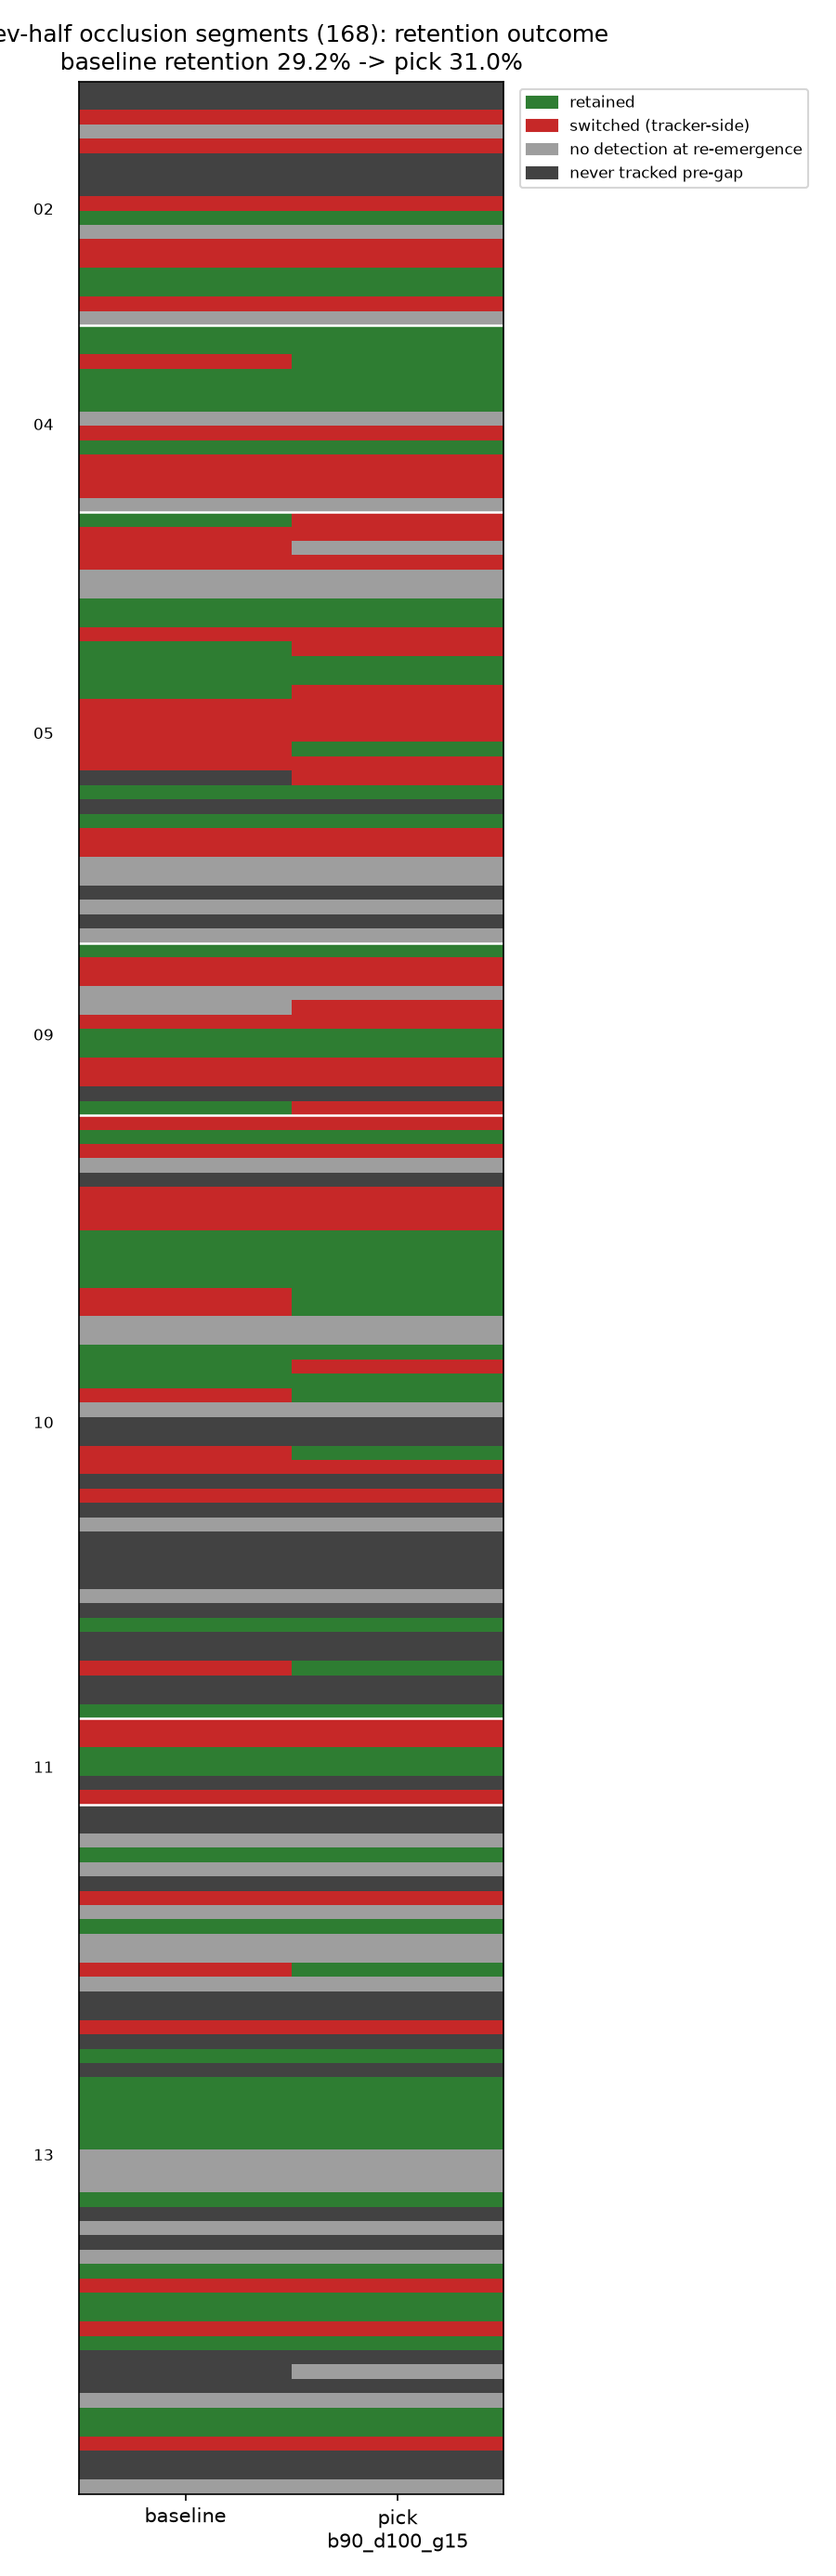
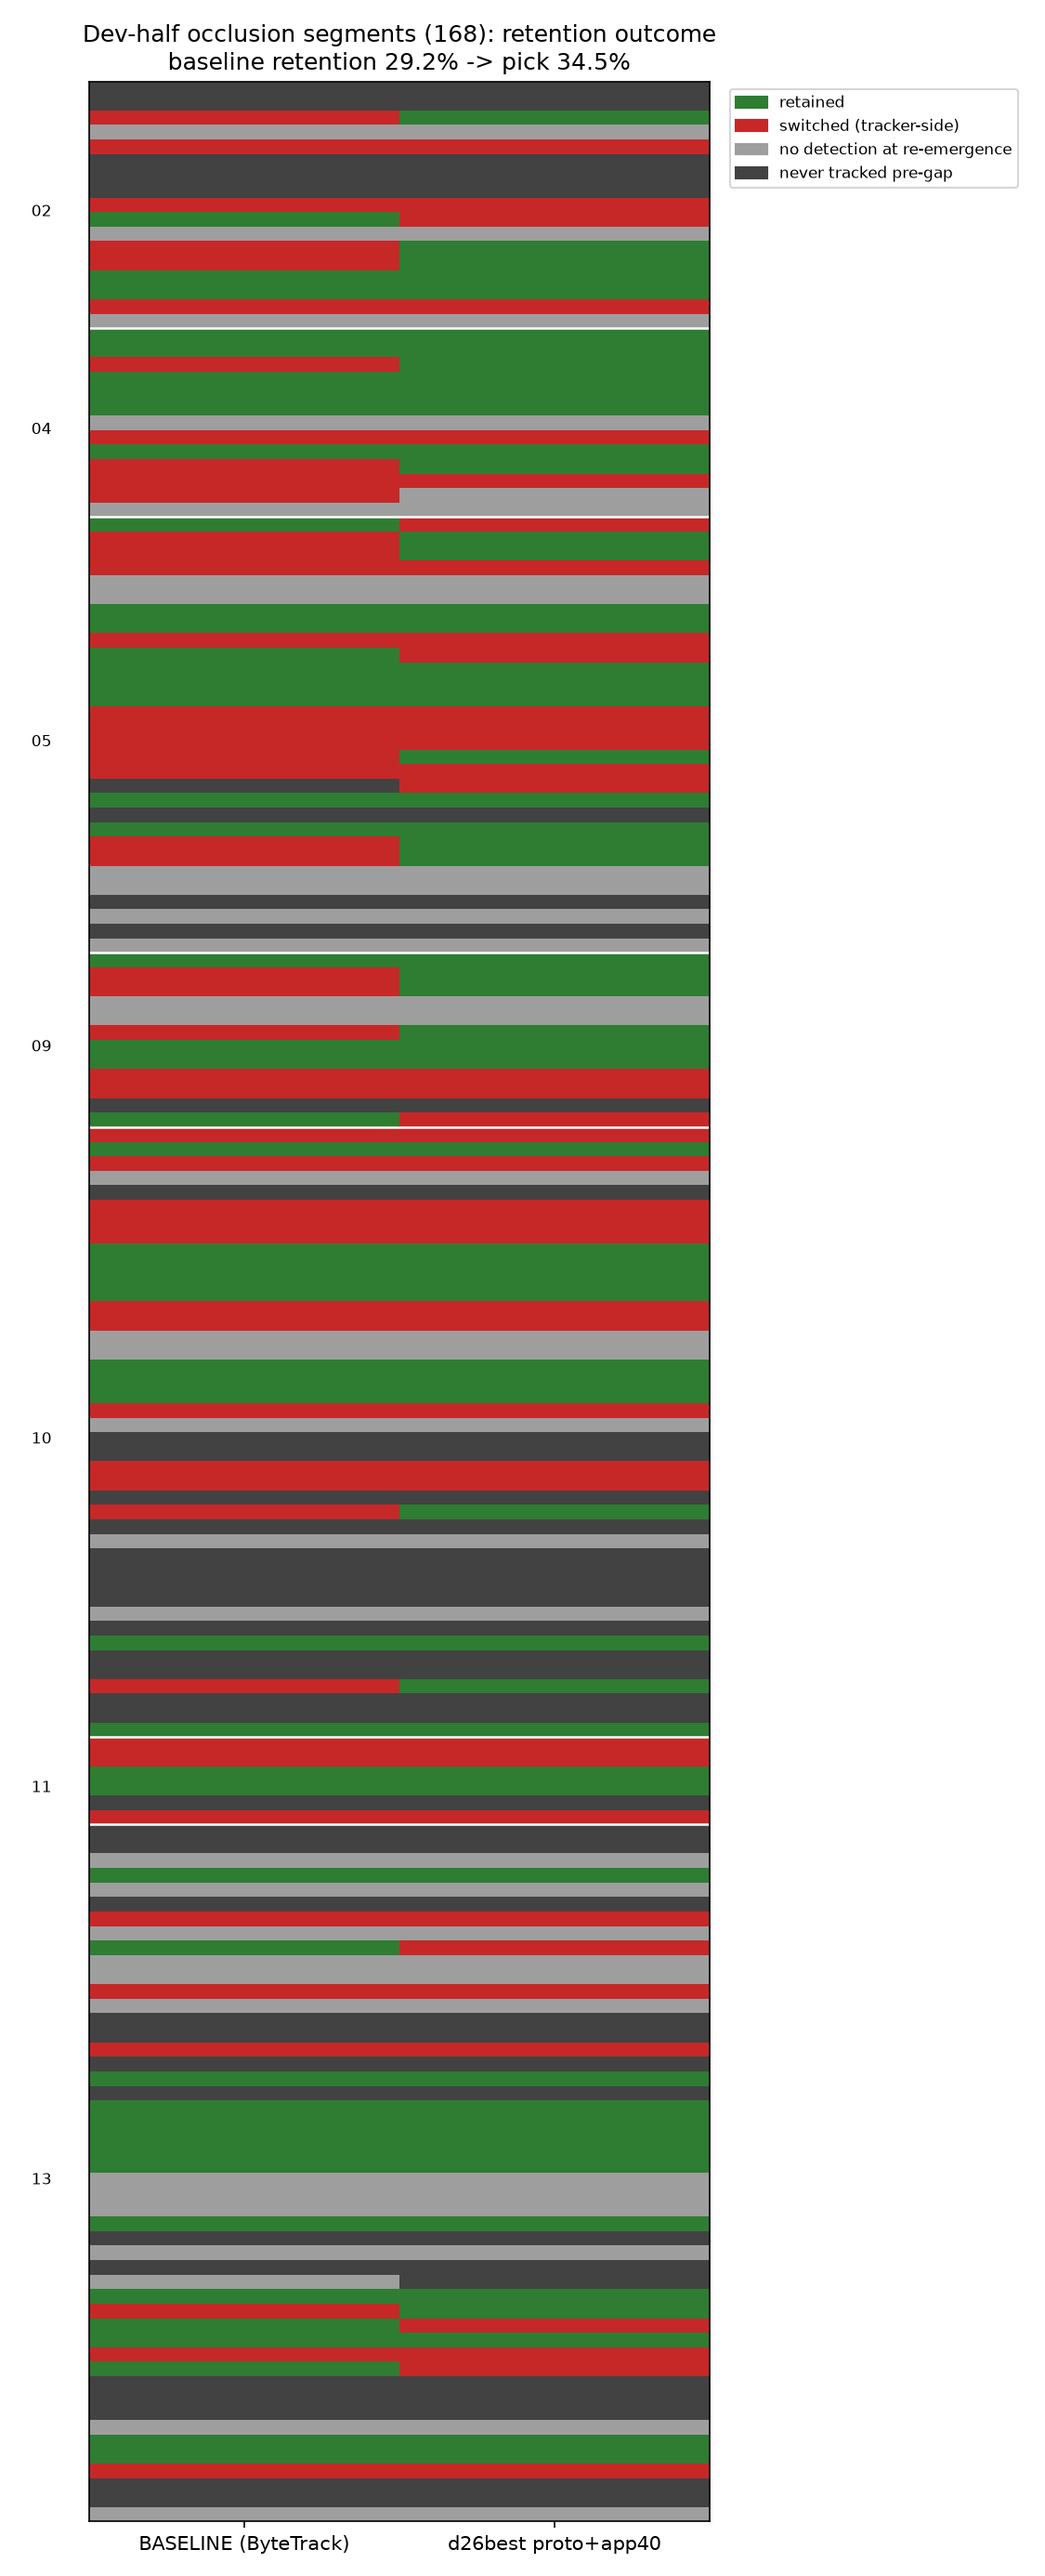
L2: parameterize dev-viz pipeline + re-ID crop grid (D27 reference impl)
render_dev_viz.py now takes --base-tag/--pick-tag/--labels/--out-dir/--pngs-only;
adds assoc-scope pre|post crop grid (outcome-colored). Rendered hidden_audit_base
vs hidden_d26best: 4 clips + summary grid (retention 29.2% -> 34.5%) + crop grid
(58/97 assoc-scope retained). Reviewer approved.

diff --git a/scripts/render_dev_viz.py b/scripts/render_dev_viz.py
@@ -1,13 +1,16 @@
-"""Qualitative dev-half read-out: baseline (hidden_devbaseg1) vs pick (hidden_candidate).
+"""Qualitative dev-half read-out: any two tracker tags, side by side (D27 viz pipeline).
 
-Renders side-by-side MP4 clips for selected occlusion segments plus a per-segment
-retention-outcome PNG grid. READ-ONLY over existing artifacts — no tracking re-runs.
+Renders side-by-side MP4 clips for selected occlusion segments, a per-segment
+retention-outcome PNG grid, and a pre/post re-ID crop grid. READ-ONLY over existing
+artifacts — no tracking re-runs.
 
-Outputs to viz/ (mp4 files are gitignored; PNG is committable).
-Usage: .venv/Scripts/python.exe scripts/render_dev_viz.py
+Outputs to viz/ (mp4 files are gitignored; PNGs are committable).
+Usage: .venv/Scripts/python.exe scripts/render_dev_viz.py \
+    --base-tag hidden_audit_base --pick-tag hidden_d26best --pick-label "d26best"
 """
 from __future__ import annotations
 
+import argparse
 import json
 import logging
 import sys
@@ -30,11 +33,11 @@ logging.basicConfig(level=logging.INFO, format="%(message)s", stream=sys.stdout)
 log = logging.getLogger("render_dev_viz")
 
 ROOT = Path(__file__).resolve().parents[1]
-VIZ = ROOT / "viz"
-BASE_TAG, PICK_TAG = "hidden_devbaseg1", "hidden_candidate"
 PANEL_H = 540
 FPS = 10
 PAD_FRAMES = 15
+CROP_H = 128
+CROP_PAD = 0.15
 
 PALETTE = [(80, 175, 76), (180, 119, 31), (14, 127, 255), (44, 160, 44), (40, 39, 214),
            (189, 103, 148), (75, 86, 140), (194, 119, 227), (127, 127, 127), (34, 189, 188)]
@@ -132,6 +135,7 @@ def draw_panel(
 def render_clip(
     seq_name: str, seg: OcclusionSegment, base: TrackerData, pick: TrackerData,
     dets: dict[int, np.ndarray], gt_rows: np.ndarray, dest: Path, mid: int,
+    base_label: str, pick_label: str,
 ) -> None:
     seq = load_sequence(ROOT / "data" / "MOT17" / "train" / seq_name)
     out_b = outcome_for(seg, base)
@@ -143,8 +147,8 @@ def render_clip(
     for f in range(f0, f1 + 1):
         img = cv2.imread(str(seq.frame_path(f)))
         assert img is not None, f"missing frame {seq.frame_path(f)}"
-        left = draw_panel(img, f, base, dets, gt_rows, seg, out_b, "BASELINE")
-        right = draw_panel(img, f, pick, dets, gt_rows, seg, out_p, "PICK b90_d100_g15")
+        left = draw_panel(img, f, base, dets, gt_rows, seg, out_b, base_label)
+        right = draw_panel(img, f, pick, dets, gt_rows, seg, out_p, pick_label)
         canvas = np.hstack([left, right])
         if writer is None:
             writer = cv2.VideoWriter(
@@ -169,8 +173,80 @@ def render_clip(
     log.info("wrote %s (frames %d-%d, gap %d)", dest, f0, f1, seg.gap_length)
 
 
+def _crop_cell(
+    seq_name: str, seg: OcclusionSegment, out: Outcome,
+) -> np.ndarray:
+    """One grid cell: GT crop at last-visible | GT crop at re-emergence, outcome border."""
+    seq = load_sequence(ROOT / "data" / "MOT17" / "train" / seq_name)
+    halves = []
+    for frame, box in (
+        (seg.last_visible_frame, seg.last_visible_box),
+        (seg.reemergence_frame, seg.reemergence_box),
+    ):
+        img = cv2.imread(str(seq.frame_path(frame)))
+        assert img is not None, f"missing frame {seq.frame_path(frame)}"
+        x, y, w, h = box
+        px, py = w * CROP_PAD, h * CROP_PAD
+        x0, y0 = max(0, int(x - px)), max(0, int(y - py))
+        x1 = min(img.shape[1], int(x + w + px))
+        y1 = min(img.shape[0], int(y + h + py))
+        halves.append(cv2.resize(img[y0:y1, x0:x1], (64, CROP_H)))
+    cell = np.hstack([halves[0], np.full((CROP_H, 2, 3), 255, np.uint8), halves[1]])
+    color = (0, 160, 0) if out.category == "RETAINED" else (0, 0, 200)
+    cell = cv2.copyMakeBorder(cell, 3, 14, 3, 3, cv2.BORDER_CONSTANT, value=color)
+    cv2.putText(cell, f"gap {seg.gap_length}", (6, cell.shape[0] - 3),
+                cv2.FONT_HERSHEY_SIMPLEX, 0.35, (255, 255, 255), 1)
+    return cell
+
+
+def render_crop_grid(
+    per_seq: dict[str, dict], dest: Path, pick_label: str, max_cells: int = 36,
+) -> None:
+    """Pre/post GT crops for assoc-scope segments, bordered by the pick's outcome.
+
+    Green = retained, red = switched — the re-ID qualitative read-out: does the
+    re-emerged appearance visibly match the pre-gap appearance where we fail?
+    """
+    scoped: list[tuple[str, OcclusionSegment, Outcome]] = []
+    for seq_name, ctx in per_seq.items():
+        for s in ctx["segs"]:
+            op = outcome_for(s, ctx["pick"])
+            if op.category in ("RETAINED", "SWITCHED"):
+                scoped.append((seq_name, s, op))
+    n_ret = sum(o.category == "RETAINED" for _, _, o in scoped)
+    assert scoped, "no assoc-scope segments — wrong tag?"
+    scoped.sort(key=lambda t: (t[2].category != "SWITCHED", -t[1].gap_length))
+    cells = [_crop_cell(sq, s, o) for sq, s, o in scoped[:max_cells]]
+    cols = 6
+    rows = []
+    for i in range(0, len(cells), cols):
+        row = cells[i : i + cols]
+        row += [np.zeros_like(cells[0])] * (cols - len(row))
+        rows.append(np.hstack(row))
+    grid = np.vstack(rows)
+    header = np.full((34, grid.shape[1], 3), 25, np.uint8)
+    cv2.putText(
+        header,
+        f"{pick_label}: pre|post crops - retained {n_ret}/{len(scoped)}"
+        f" (top {min(max_cells, len(scoped))}, switched first)",
+        (8, 23), cv2.FONT_HERSHEY_SIMPLEX, 0.55, (255, 255, 255), 1,
+    )
+    cv2.imwrite(str(dest), np.vstack([header, grid]))
+    log.info("wrote %s (%d cells)", dest, min(max_cells, len(scoped)))
+
+
 def main() -> int:
-    VIZ.mkdir(exist_ok=True)
+    ap = argparse.ArgumentParser()
+    ap.add_argument("--base-tag", default="hidden_audit_base")
+    ap.add_argument("--pick-tag", default="hidden_d26best")
+    ap.add_argument("--base-label", default="BASELINE")
+    ap.add_argument("--pick-label", default="PICK")
+    ap.add_argument("--out-dir", type=Path, default=ROOT / "viz")
+    ap.add_argument("--pngs-only", action="store_true",
+                    help="skip MP4 clip rendering (cheap PNG iteration)")
+    args = ap.parse_args()
+    viz_dir: Path = args.out_dir
+    viz_dir.mkdir(exist_ok=True)
     seg_index = json.loads(
         (ROOT / "results" / "occlusion_segments.json").read_text(encoding="utf-8")
     )
@@ -180,8 +256,8 @@ def main() -> int:
     for seq_name, entry in seg_index["sequences"].items():
         if not entry["dev_half"]:
             continue
-        base = load_tracker(seq_name, BASE_TAG)
-        pick = load_tracker(seq_name, PICK_TAG)
+        base = load_tracker(seq_name, args.base_tag)
+        pick = load_tracker(seq_name, args.pick_tag)
         dets = load_cached_detections(
             cache_path(ROOT / "data" / "cache" / "detections", seq_name, "yolo11x")
         )
@@ -239,20 +315,33 @@ def main() -> int:
              len(wins), len(pick_fail), len(det_ceiling))
     assert chosen_wins and pick_fail and det_ceiling, "selection came up empty somewhere"
 
-    manifest: dict[str, str] = {}
+    mpath = viz_dir / "manifest.json"
+    manifest: dict[str, str] = (
+        json.loads(mpath.read_text(encoding="utf-8")) if args.pngs_only and mpath.exists()
+        else {}
+    )
+    manifest.update({"base_tag": args.base_tag, "pick_tag": args.pick_tag})
+    chosen_wins = [] if args.pngs_only else chosen_wins
     for i, (seq_name, s) in enumerate(chosen_wins, 1):
-        dest = VIZ / f"a{i}_pick_retains_{seq_name}_t{s.track_id}_gap{s.gap_length}.mp4"
+        dest = viz_dir / f"a{i}_pick_retains_{seq_name}_t{s.track_id}_gap{s.gap_length}.mp4"
         ctx = per_seq[seq_name]
         render_clip(seq_name, s, ctx["base"], ctx["pick"], ctx["dets"], ctx["gt"],
-                    dest, ctx["mid"])
+                    dest, ctx["mid"], args.base_label, args.pick_label)
         manifest[f"a{i}_pick_retains"] = str(dest)
-    for key, pool in (("b_pick_tracker_failure", pick_fail), ("c_detector_ceiling", det_ceiling)):
+    clip_pools = () if args.pngs_only else (
+        ("b_pick_tracker_failure", pick_fail), ("c_detector_ceiling", det_ceiling),
+    )
+    for key, pool in clip_pools:
         seq_name, s = pool[0]
-        dest = VIZ / f"{key}_{seq_name}_t{s.track_id}_gap{s.gap_length}.mp4"
+        dest = viz_dir / f"{key}_{seq_name}_t{s.track_id}_gap{s.gap_length}.mp4"
         ctx = per_seq[seq_name]
         render_clip(seq_name, s, ctx["base"], ctx["pick"], ctx["dets"], ctx["gt"],
-                    dest, ctx["mid"])
+                    dest, ctx["mid"], args.base_label, args.pick_label)
         manifest[key] = str(dest)
+
+    crop_png = viz_dir / "crops_assoc_scope.png"
+    render_crop_grid(per_seq, crop_png, args.pick_label)
+    manifest["crops_png"] = str(crop_png)
 
     # ---- summary PNG ----------------------------------------------------------------
     import matplotlib
@@ -267,9 +356,9 @@ def main() -> int:
         [[cat_code[b.category], cat_code[p.category]] for _, b, p, _ in rows_for_grid]
     )
     cmap = ListedColormap(["#2e7d32", "#c62828", "#9e9e9e", "#424242"])
-    fig, ax = plt.subplots(figsize=(6, max(8, len(grid) * 0.11)))
+    fig, ax = plt.subplots(figsize=(7.5, max(8, len(grid) * 0.11)))
     ax.imshow(grid, aspect="auto", cmap=cmap, vmin=0, vmax=3, interpolation="nearest")
-    ax.set_xticks([0, 1], ["baseline", "pick\nb90_d100_g15"])
+    ax.set_xticks([0, 1], [args.base_label, args.pick_label])
     boundaries, names, start = [], [], 0
     for seq_name, ctx in per_seq.items():
         n = len(ctx["segs"])
@@ -292,12 +381,12 @@ def main() -> int:
         Patch(color="#424242", label="never tracked pre-gap"),
     ], loc="upper left", bbox_to_anchor=(1.02, 1.0), fontsize=8)
     fig.tight_layout()
-    png = VIZ / "summary_retention_grid.png"
+    png = viz_dir / "summary_retention_grid.png"
     fig.savefig(png, dpi=150)
     manifest["summary_png"] = str(png)
     log.info("wrote %s", png)
 
-    (VIZ / "manifest.json").write_text(json.dumps(manifest, indent=2), encoding="utf-8")
+    mpath.write_text(json.dumps(manifest, indent=2), encoding="utf-8")
     for k, v in manifest.items():
         log.info("%s: %s", k, v)
     return 0
